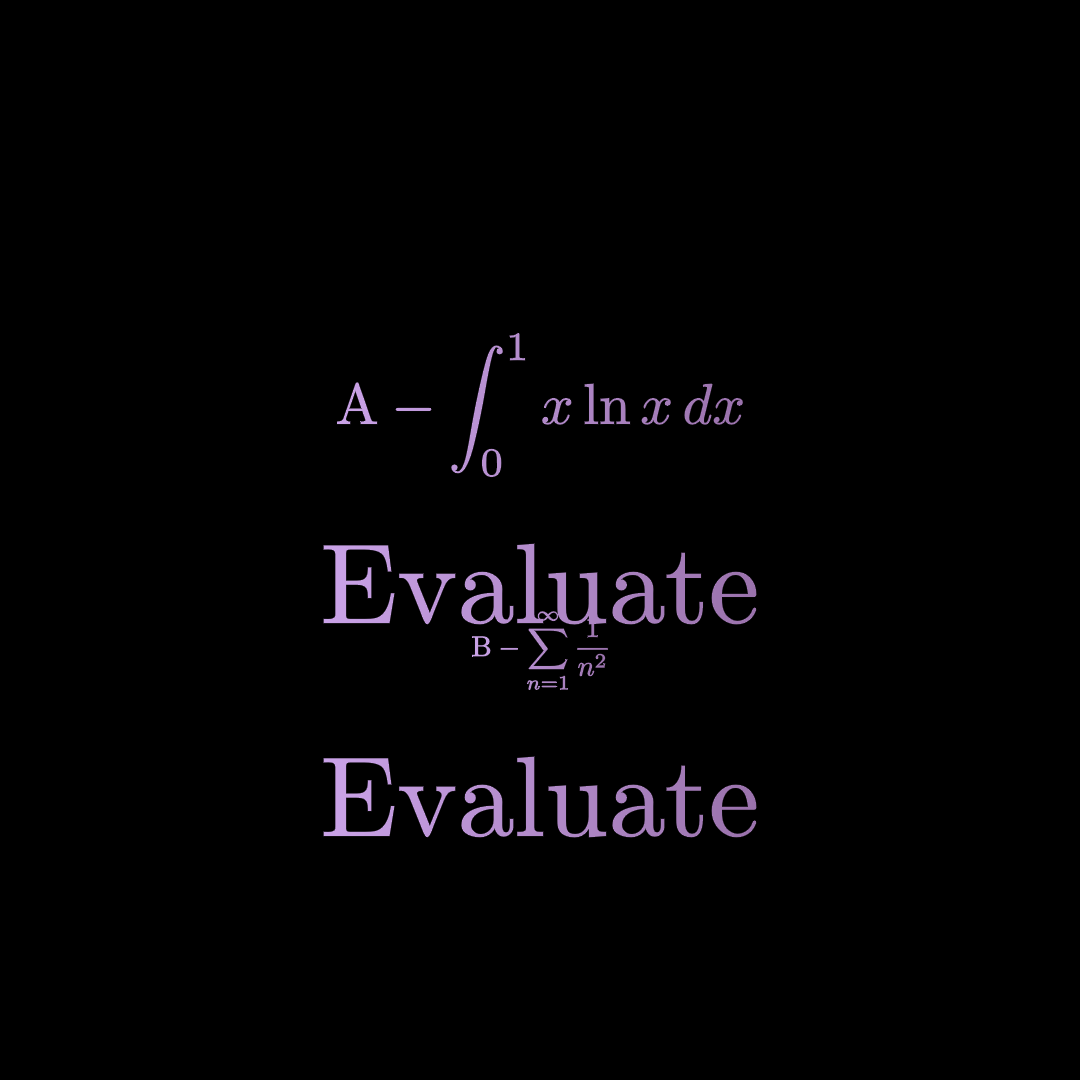
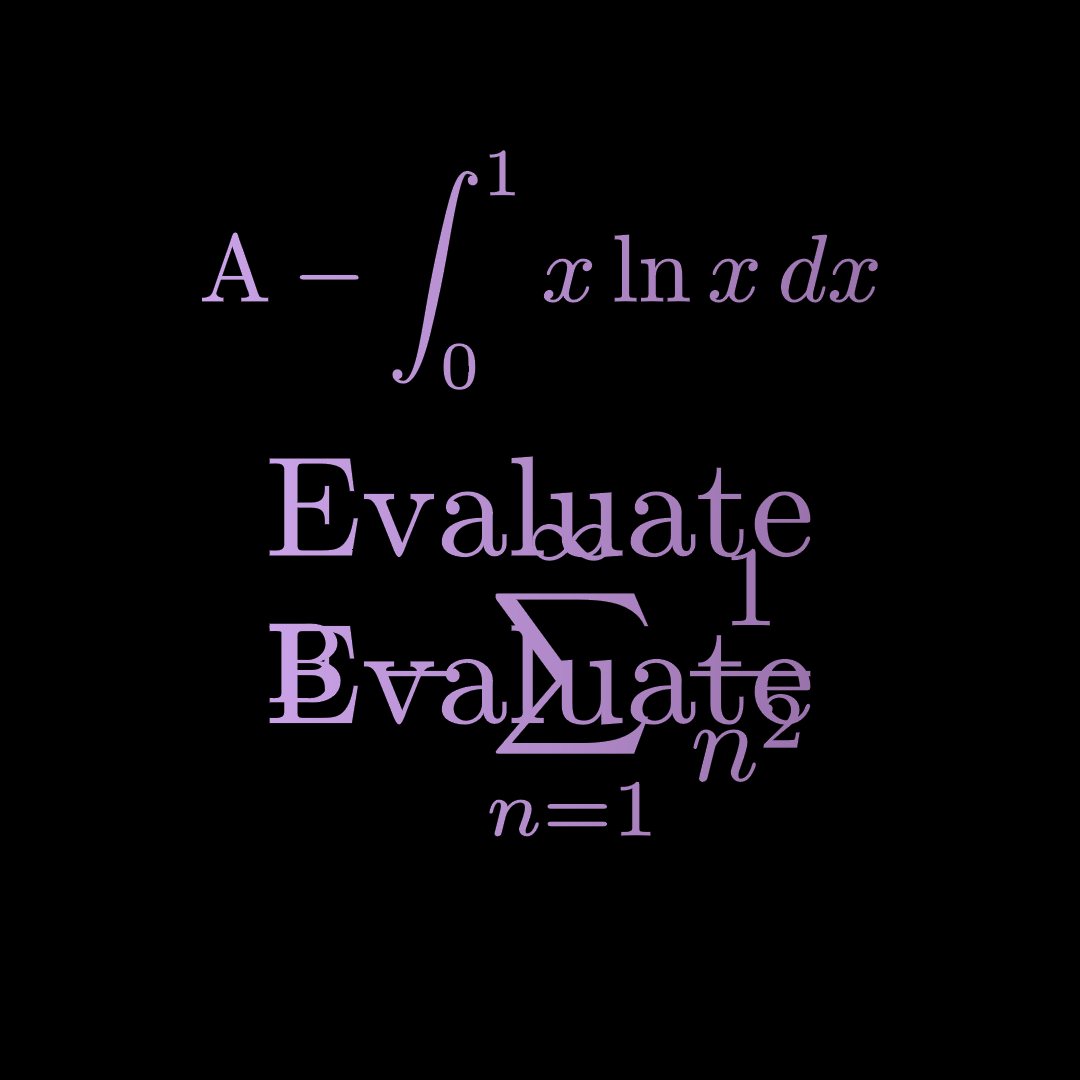
f

diff --git a/char.py b/char.py
@@ -21,12 +21,12 @@ class AB(InteractiveScene):
 
         A = Tex(R" \text{A} - \int_0^1 x\ln x\,dx")
         A.set_color(color)
-        A.set_width(FRAME_WIDTH - 5)
-        A.shift(UP)
+        A.set_width(FRAME_WIDTH - 3)
+        A.shift(UP * 2)
 
         B = Tex(R"\text{B} - \sum_{n=1}^{\infty}\frac{1}{n^2}")
         B.set_color(color)
-        B.set_width(FRAME_WIDTH - 7)
+        B.set_width(FRAME_WIDTH - 4)
 
         B.next_to(A, DOWN, buff=LARGE_BUFF)
 
@@ -34,13 +34,13 @@ class AB(InteractiveScene):
 
         a = TexText("Evaluate")
         a.set_color(color)
-        a.set_width(3.2)
+        a.set_width(FRAME_WIDTH - 4)
         a.next_to(A, DOWN, buff=MED_LARGE_BUFF)
 
         b = TexText("Evaluate")
         b.set_color(color)
-        b.set_width(3.2)
-        b.next_to(B, DOWN, buff=MED_LARGE_BUFF)
+        b.set_width(FRAME_WIDTH - 4)
+        b.next_to(a, DOWN, buff=MED_LARGE_BUFF)
 
         self.add(a, b)
 
